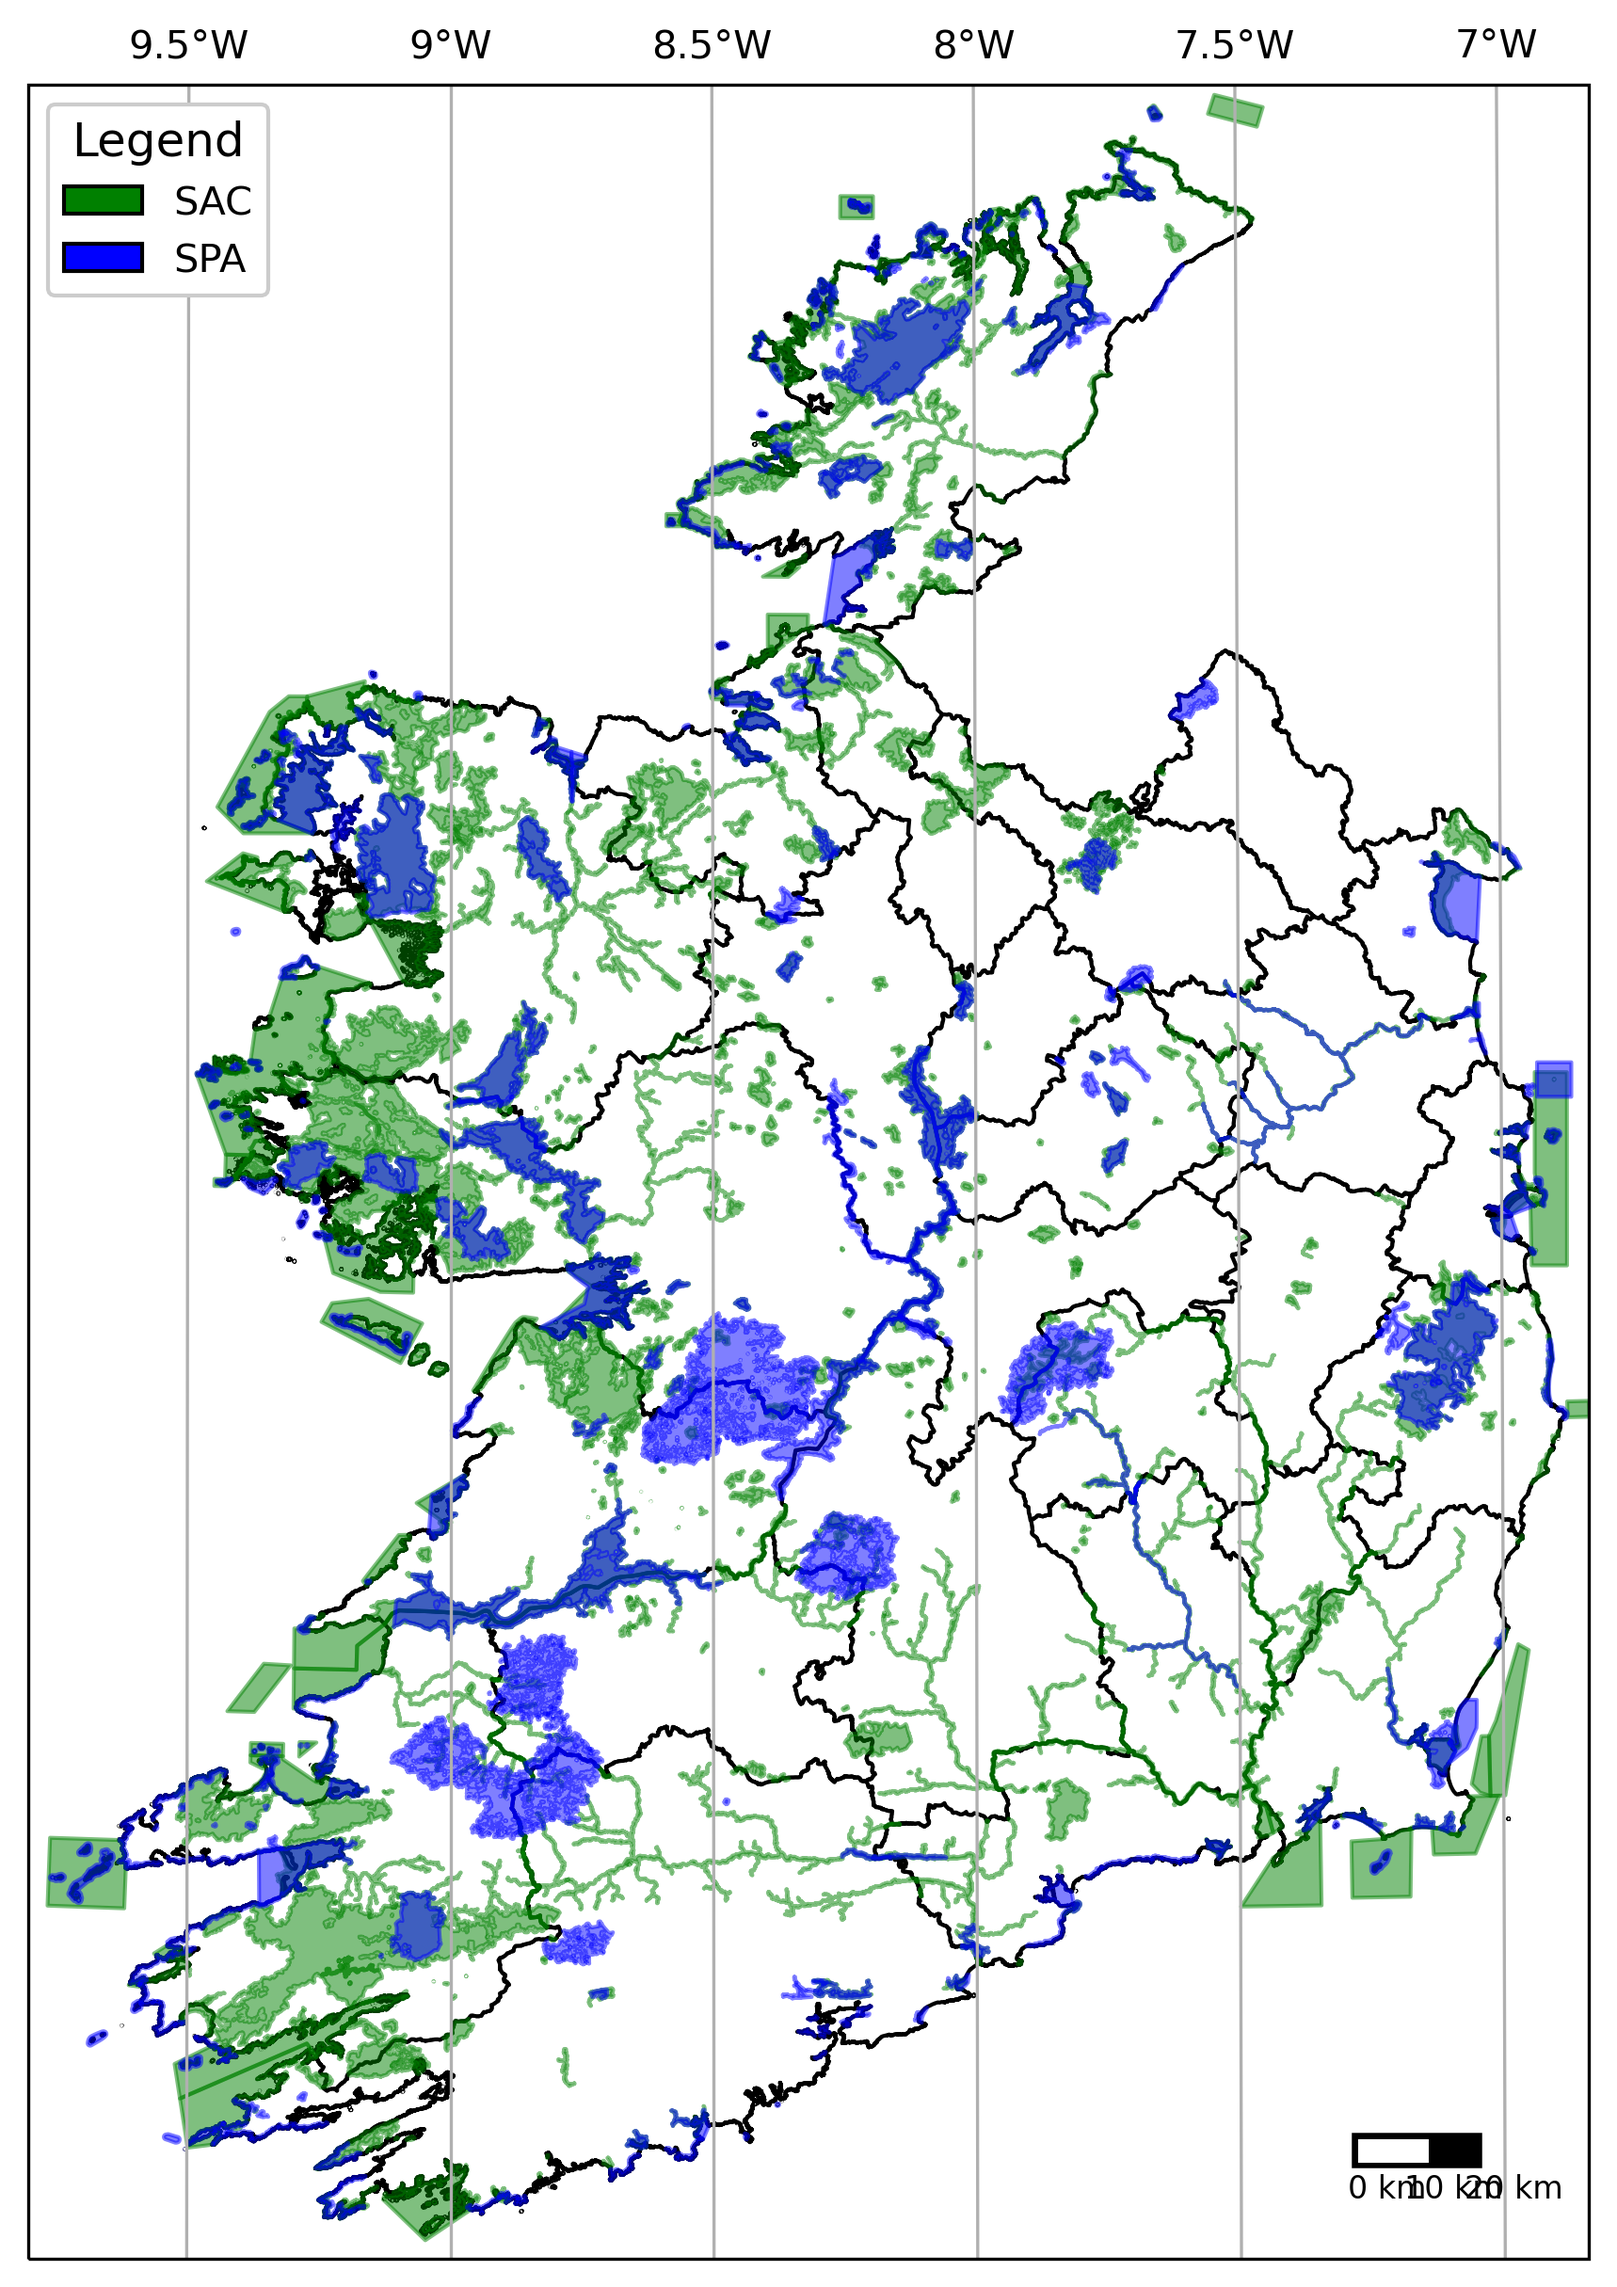
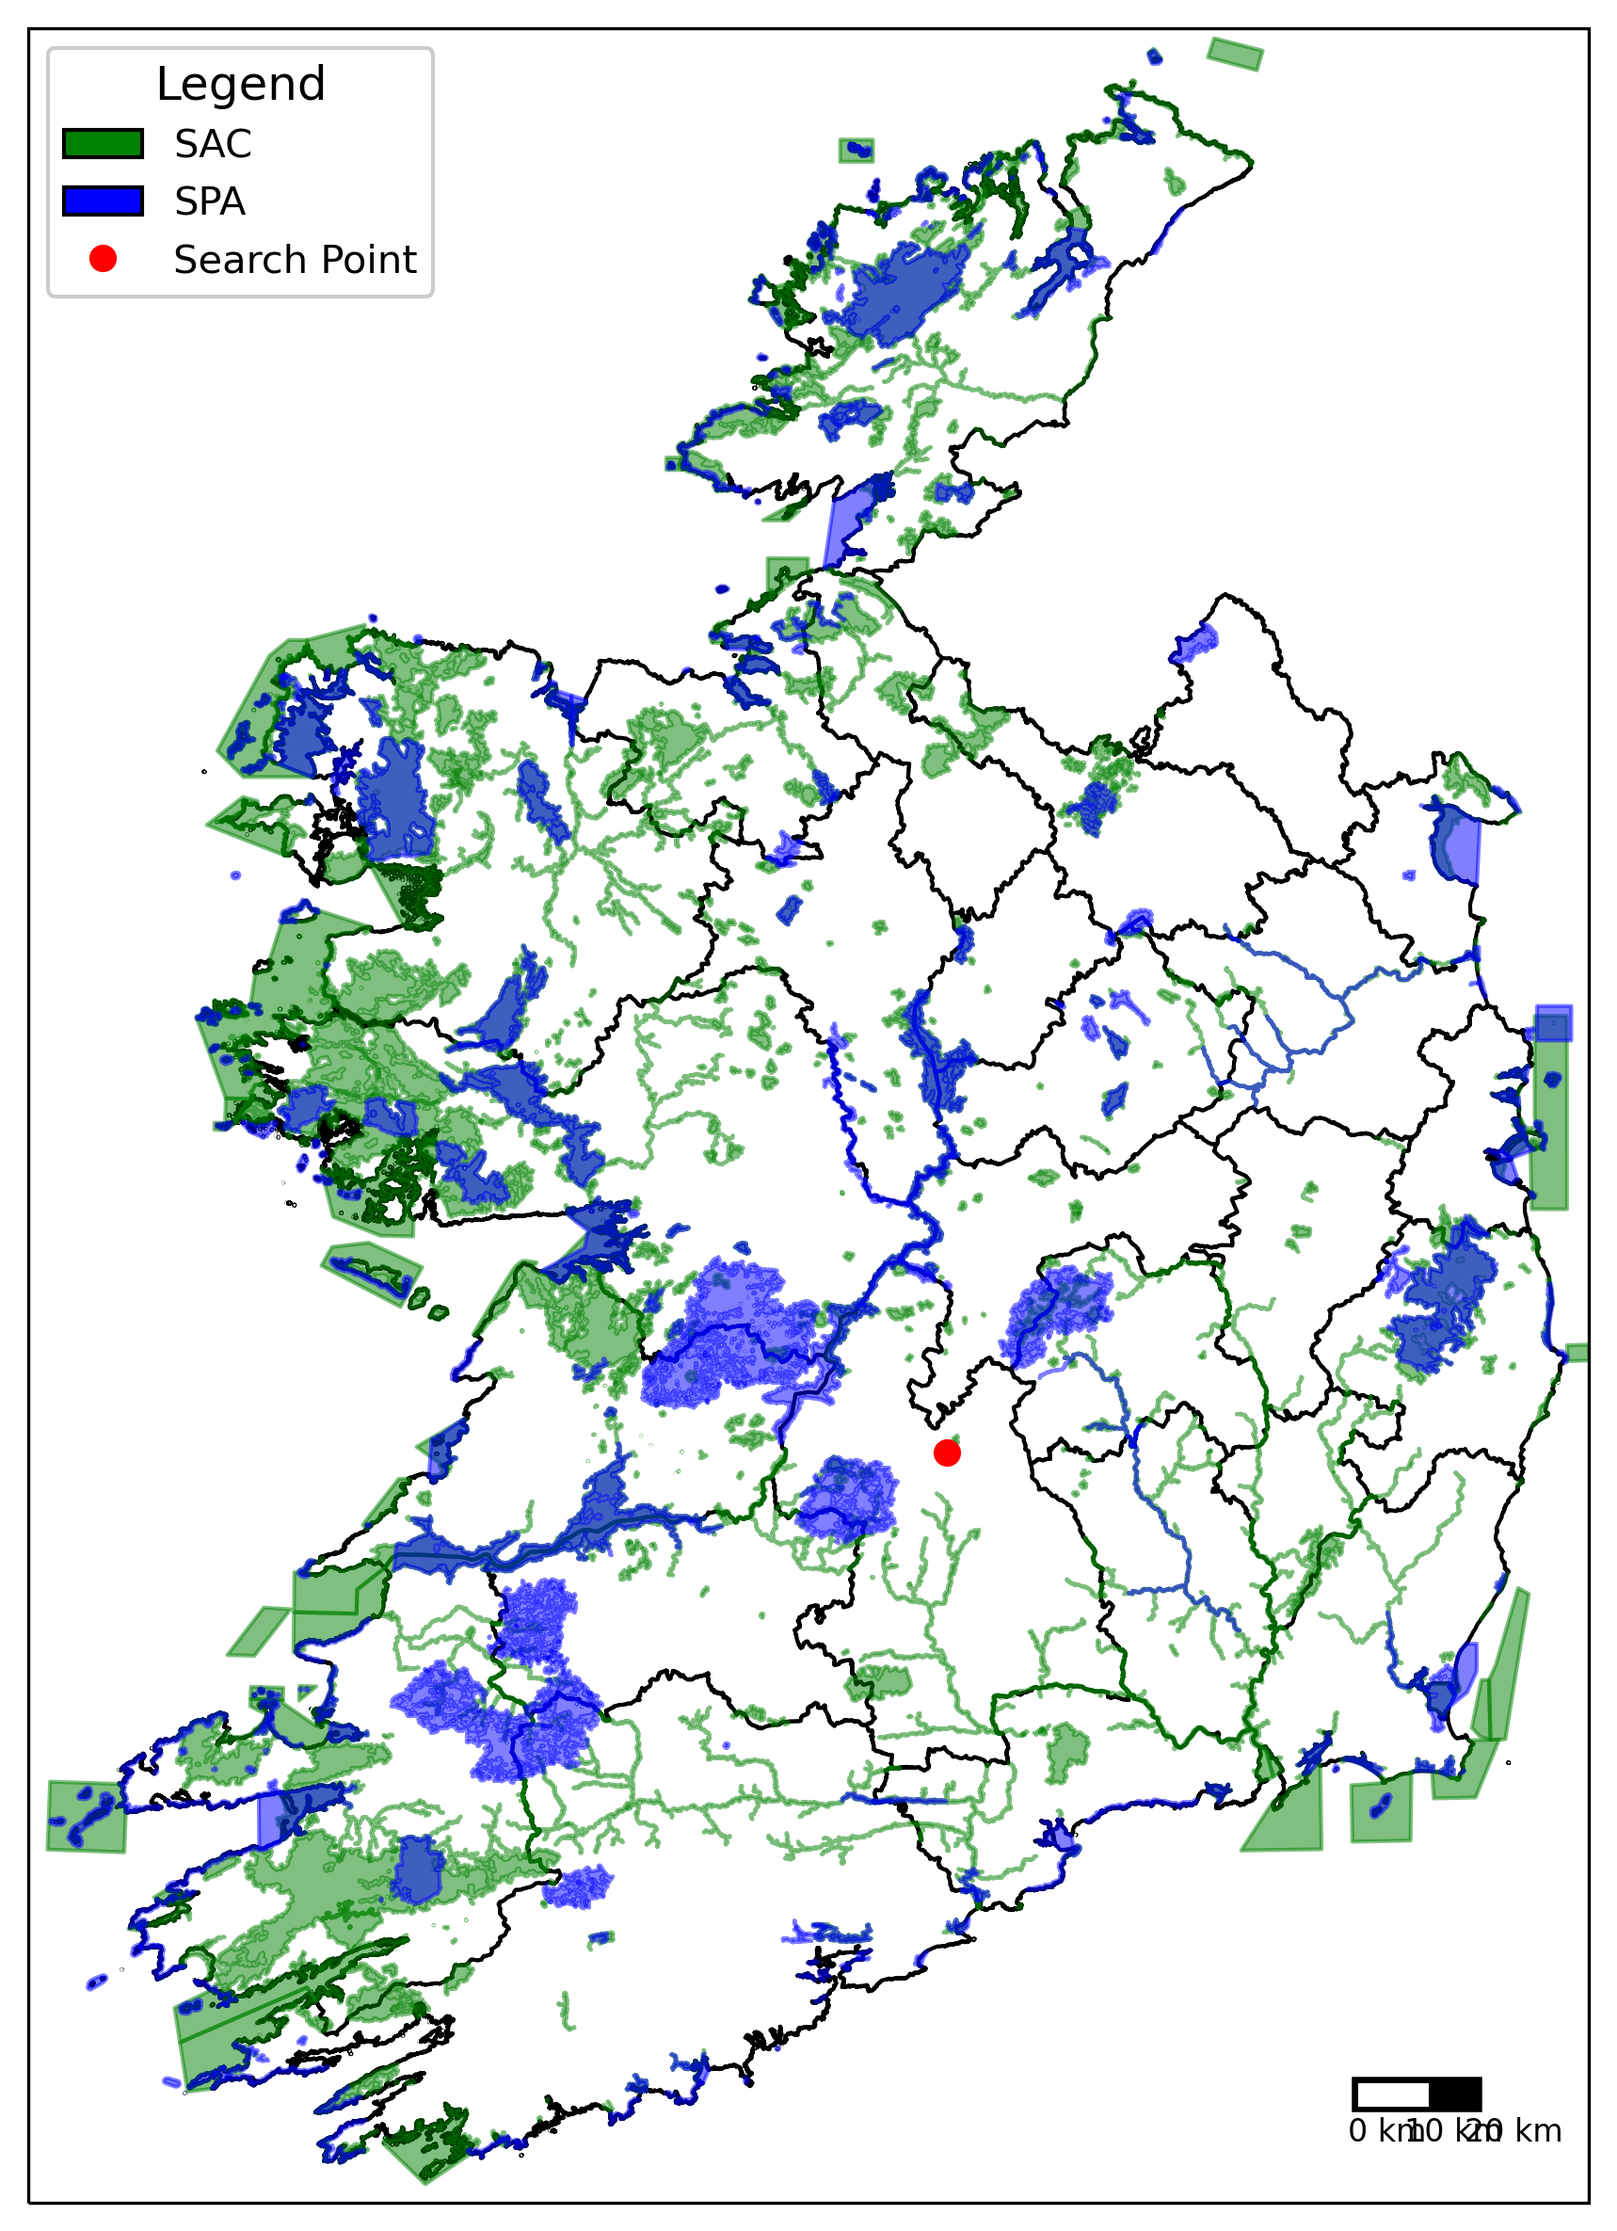
EPSG loop checker/converter function and userpoint input added

diff --git a/Natura2000sites.py b/Natura2000sites.py
@@ -4,6 +4,7 @@ import geopandas as gpd
 import matplotlib.pyplot as plt
 from cartopy.feature import ShapelyFeature
 import cartopy.crs as ccrs
+from shapely.geometry import Point, LineString
 import matplotlib.patches as mpatches
 import matplotlib.lines as mlines
 
@@ -33,29 +34,51 @@ def scale_bar(ax, location=(0.92, 0.05)):
     ax.text(sbx-12500, sby-10000, '10 km', transform=ax.projection, fontsize=8)
     ax.text(sbx-24500, sby-10000, '0 km', transform=ax.projection, fontsize=8)
 
-# import external datasets
-# load the Republic of Ireland boundary as an outline
+# ---------------------Import external shapefiles as GeoPandas Geodataframes----------------------------------------
 outline = gpd.read_file(os.path.abspath('data_files/Counties___Ungen_2019.shp'))
-
-# load Natura 2000 Site boundaries
 sac = gpd.read_file(os.path.abspath('data_files/SAC_ITM_2023_02.shp'))
 spa = gpd.read_file(os.path.abspath('data_files/SPA_ITM_2021_10.shp'))
+#---------------------------------Check CRS Consistency--------------------------------------------------------------
+#sac = sac.to_crs(epsg=32639) #debug
+
+#Check EPSG codes of the input data and state if projections are consistent
+if outline.crs == sac.crs == spa.crs:
+    print ('All features are projected to projection {}'.format(outline.crs))
+    pass
+else:
+    print ('Input data will be reprojected as 1 or more features have inconsistent projections')
+    epsg_code = int((input('Please enter the EPSG code used to reproject input data: '))) #ITM = 2157
+    outline = outline.to_crs(epsg=epsg_code)
+    sac = sac.to_crs(epsg=epsg_code)
+    spa = spa.to_crs(epsg=epsg_code)
+    print('Outline projection - {}\nSAC projection - {}\nSPA projection - {}'
+          .format(outline.crs, sac.crs, spa.crs))
+
+#------------------------------User input coordinates and search function-------------------------------------------
+
+xin = input("Enter X coordinates of search point:")
+xin = float(xin) #transform input str to float for plotting
+
+yin = input('Entey Y coodinate of search point;')
+yin = float(yin) #transform input str to float for plotting
+
+userinput = (xin, yin)
+
 
 #_______________________________Creating map________________________________________________________________________
 # create figure of size 10x10
 myFig = plt.figure(figsize=(10, 10))
 
-# create a Universal Transverse Mercator reference system to transform data.
-myCRS = ccrs.UTM(29)  # RoI is in UTM Zone 29, so we pass 29 to ccrs.UTM()
+# create a coordinate reference system.
+myCRS = ccrs.UTM(29)  # Irish Transverse Mercator (ITM) is used in RoI.
+# 2157 is the epsg code for ITM so passed to ccrs.epsg()
 
 # create an axis object in the figure, using myCRS where data is plotted.
 ax = plt.axes(projection=myCRS)
 
 # add the outline of RoI using cartopy's ShapelyFeature
 outline_feature = ShapelyFeature(outline['geometry'], myCRS, edgecolor='k', facecolor='w')
-
-
-ax.add_feature(outline_feature)  # add the features we've created to the map.
+ax.add_feature(outline_feature)
 
 # using the boundary of the shapefile features, zoom the map to our area of interest
 xmin, ymin, xmax, ymax = outline.total_bounds
@@ -80,23 +103,25 @@ spa_feat = ShapelyFeature(spa['geometry'],  # first argument is the geometry
                             alpha= 0.5)    # Transparency set to 50%
 ax.add_feature(spa_feat)  # add the feature to the map
 
+userpoint_handle = ax.plot(xin, yin, 'o', color='r', ms=6,)
+
 # Symbologies for handles in legend
 sac_handle = generate_handles(['SAC'], ['g'])
 spa_handle = generate_handles(['SPA'], ['b'])
 
 # ax.legend() takes list of handles and list of labels corresponding to the features of interest
 # and adds them to  the legend
-handles = sac_handle + spa_handle
-labels = ['SAC', 'SPA']
+handles = sac_handle + spa_handle + userpoint_handle
+labels = ['SAC', 'SPA', 'Search Point']
 leg = ax.legend(handles, labels, title='Legend', title_fontsize=12,
                 fontsize=10, loc='upper left', frameon=True, framealpha=1)
 
 # Gridlines - I'll probably remove
-gridlines = ax.gridlines(draw_labels=True,  # draw  labels for the grid lines
-                         xlocs=[-9.5, -9, -8.5, -8, -7.5, -7],  # add longitude lines at 0.5 deg intervals
-                         ylocs=[54, 54.5, 55, 55.5])  # add latitude lines at 0.5 deg intervals
-gridlines.left_labels = False  # turn off the left-side labels
-gridlines.bottom_labels = False  # turn off the bottom labels
+#gridlines = ax.gridlines(draw_labels=True,  # draw  labels for the grid lines
+#                         xlocs=[-9.5, -9, -8.5, -8, -7.5, -7],  # add longitude lines at 0.5 deg intervals
+#                         ylocs=[54, 54.5, 55, 55.5])  # add latitude lines at 0.5 deg intervals
+#gridlines.left_labels = False  # turn off the left-side labels
+#gridlines.bottom_labels = False  # turn off the bottom labels
 
 # add the scale bar to the axis
 scale_bar(ax)
